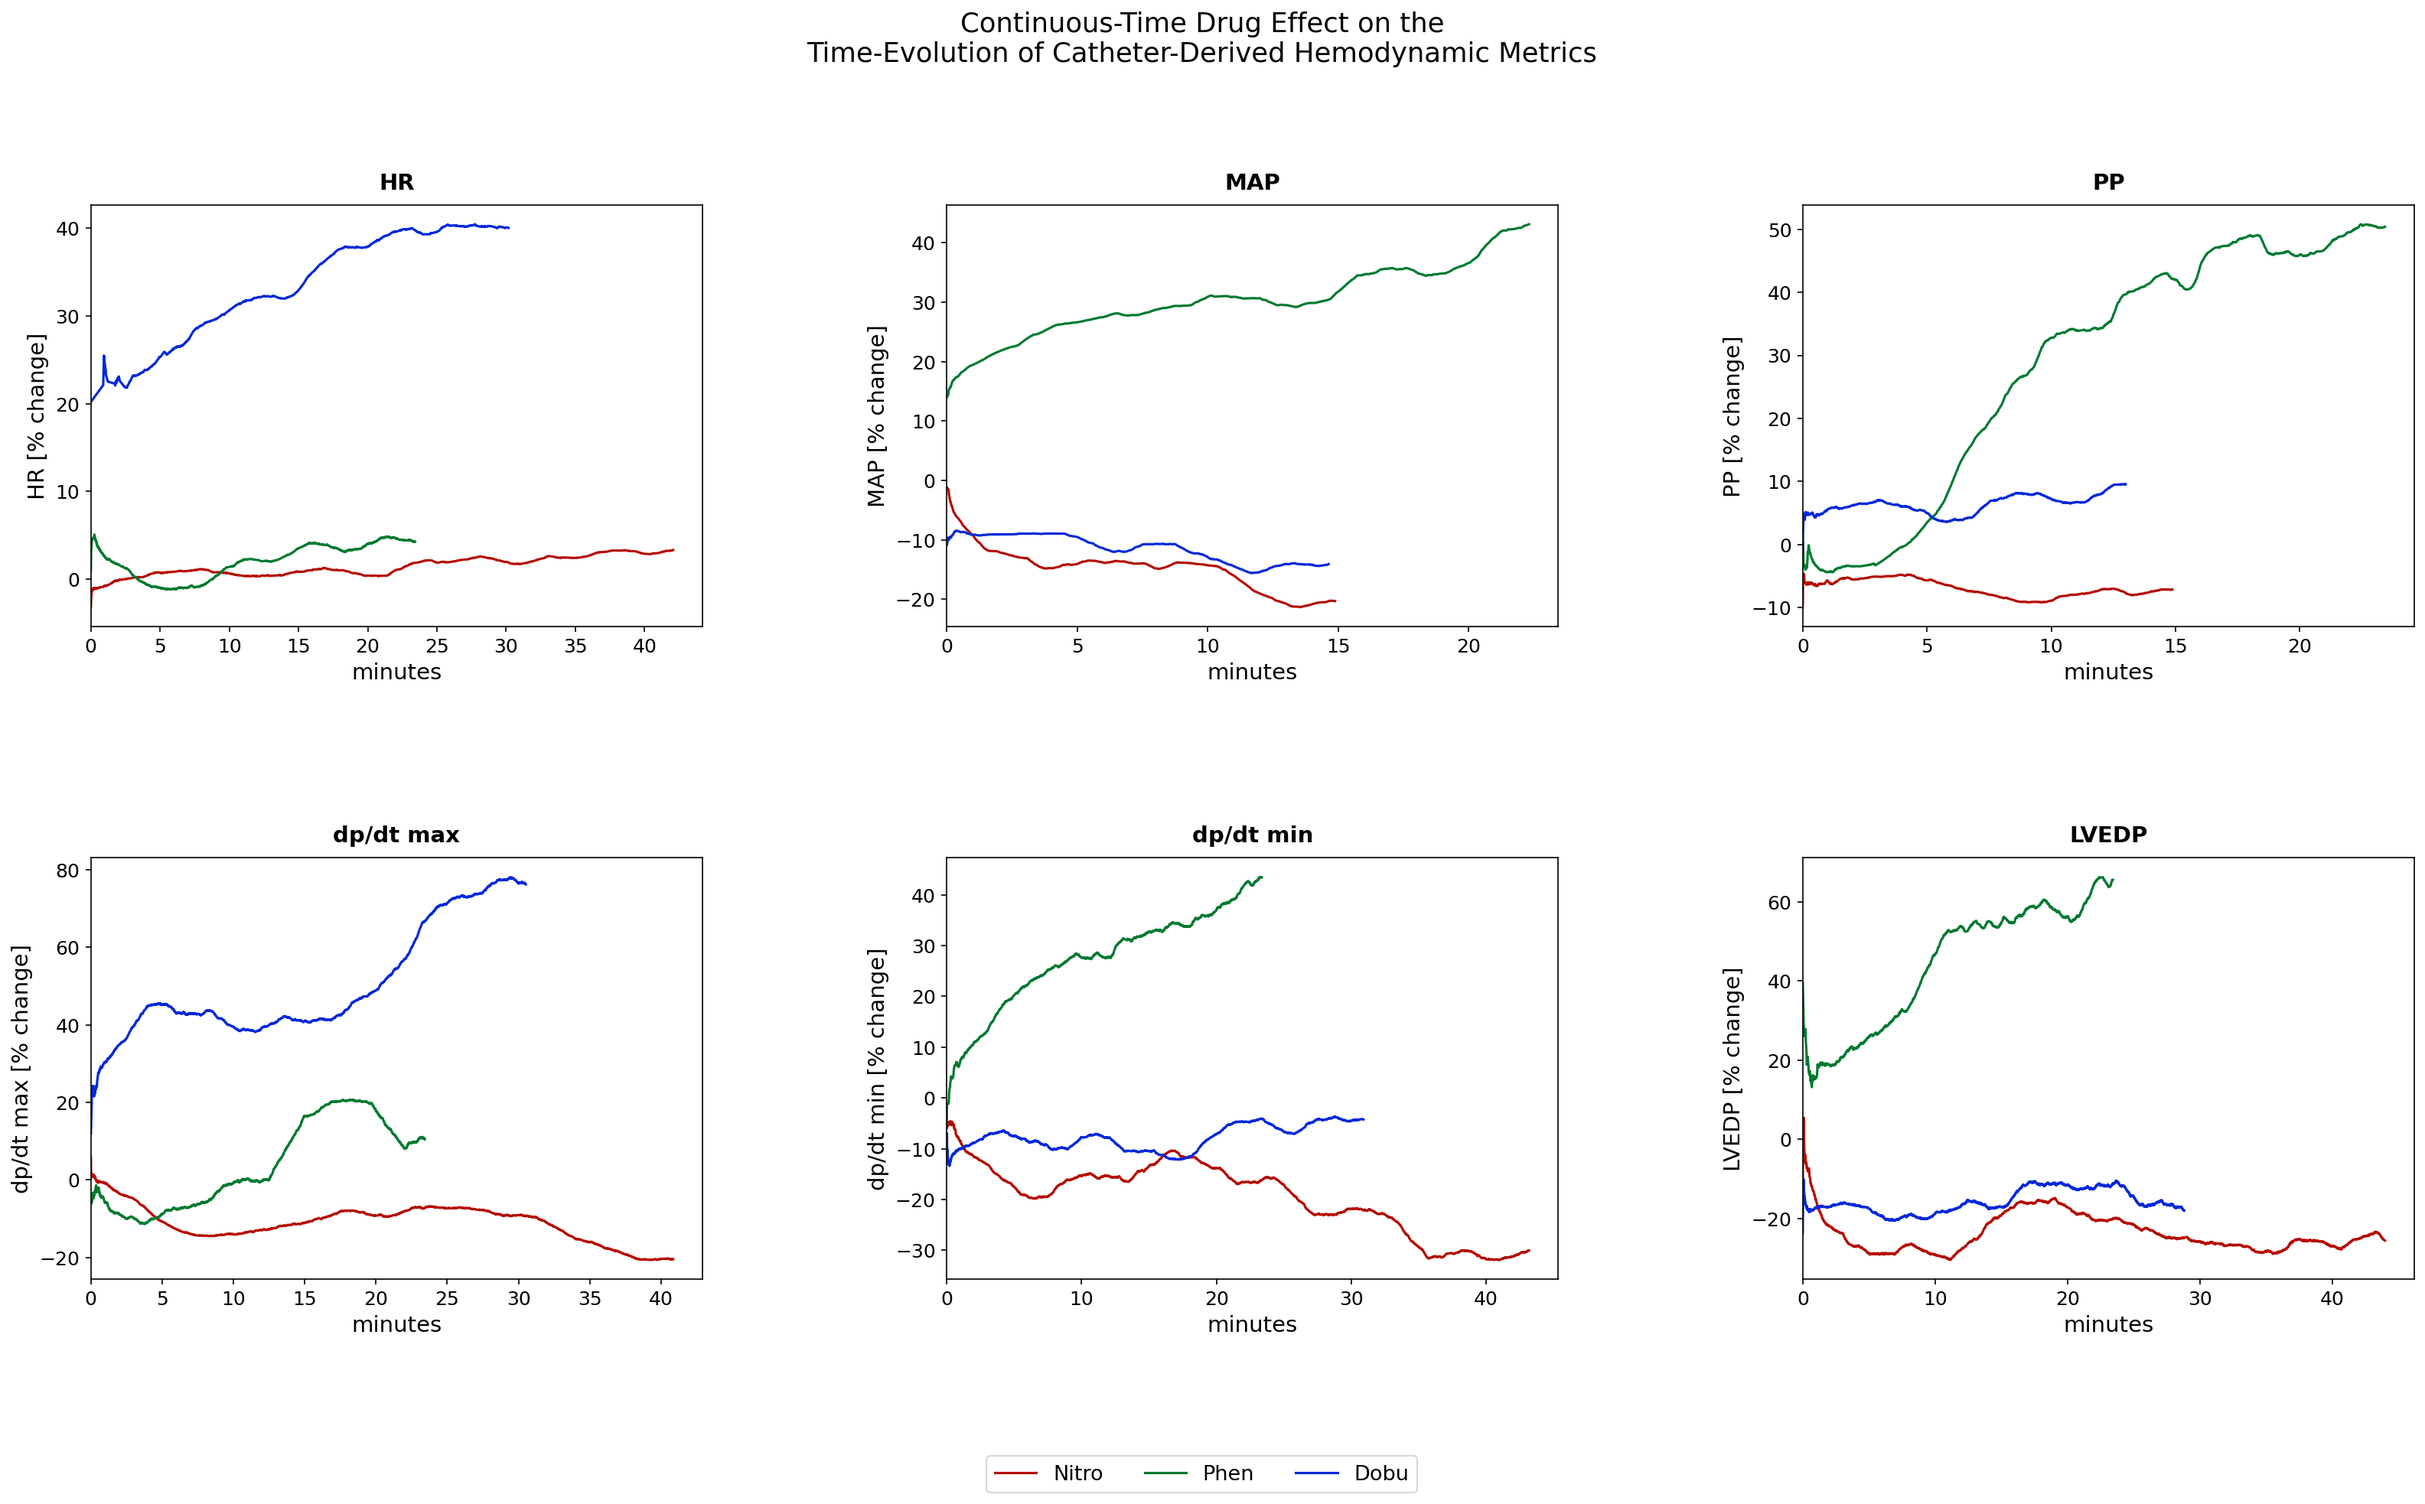
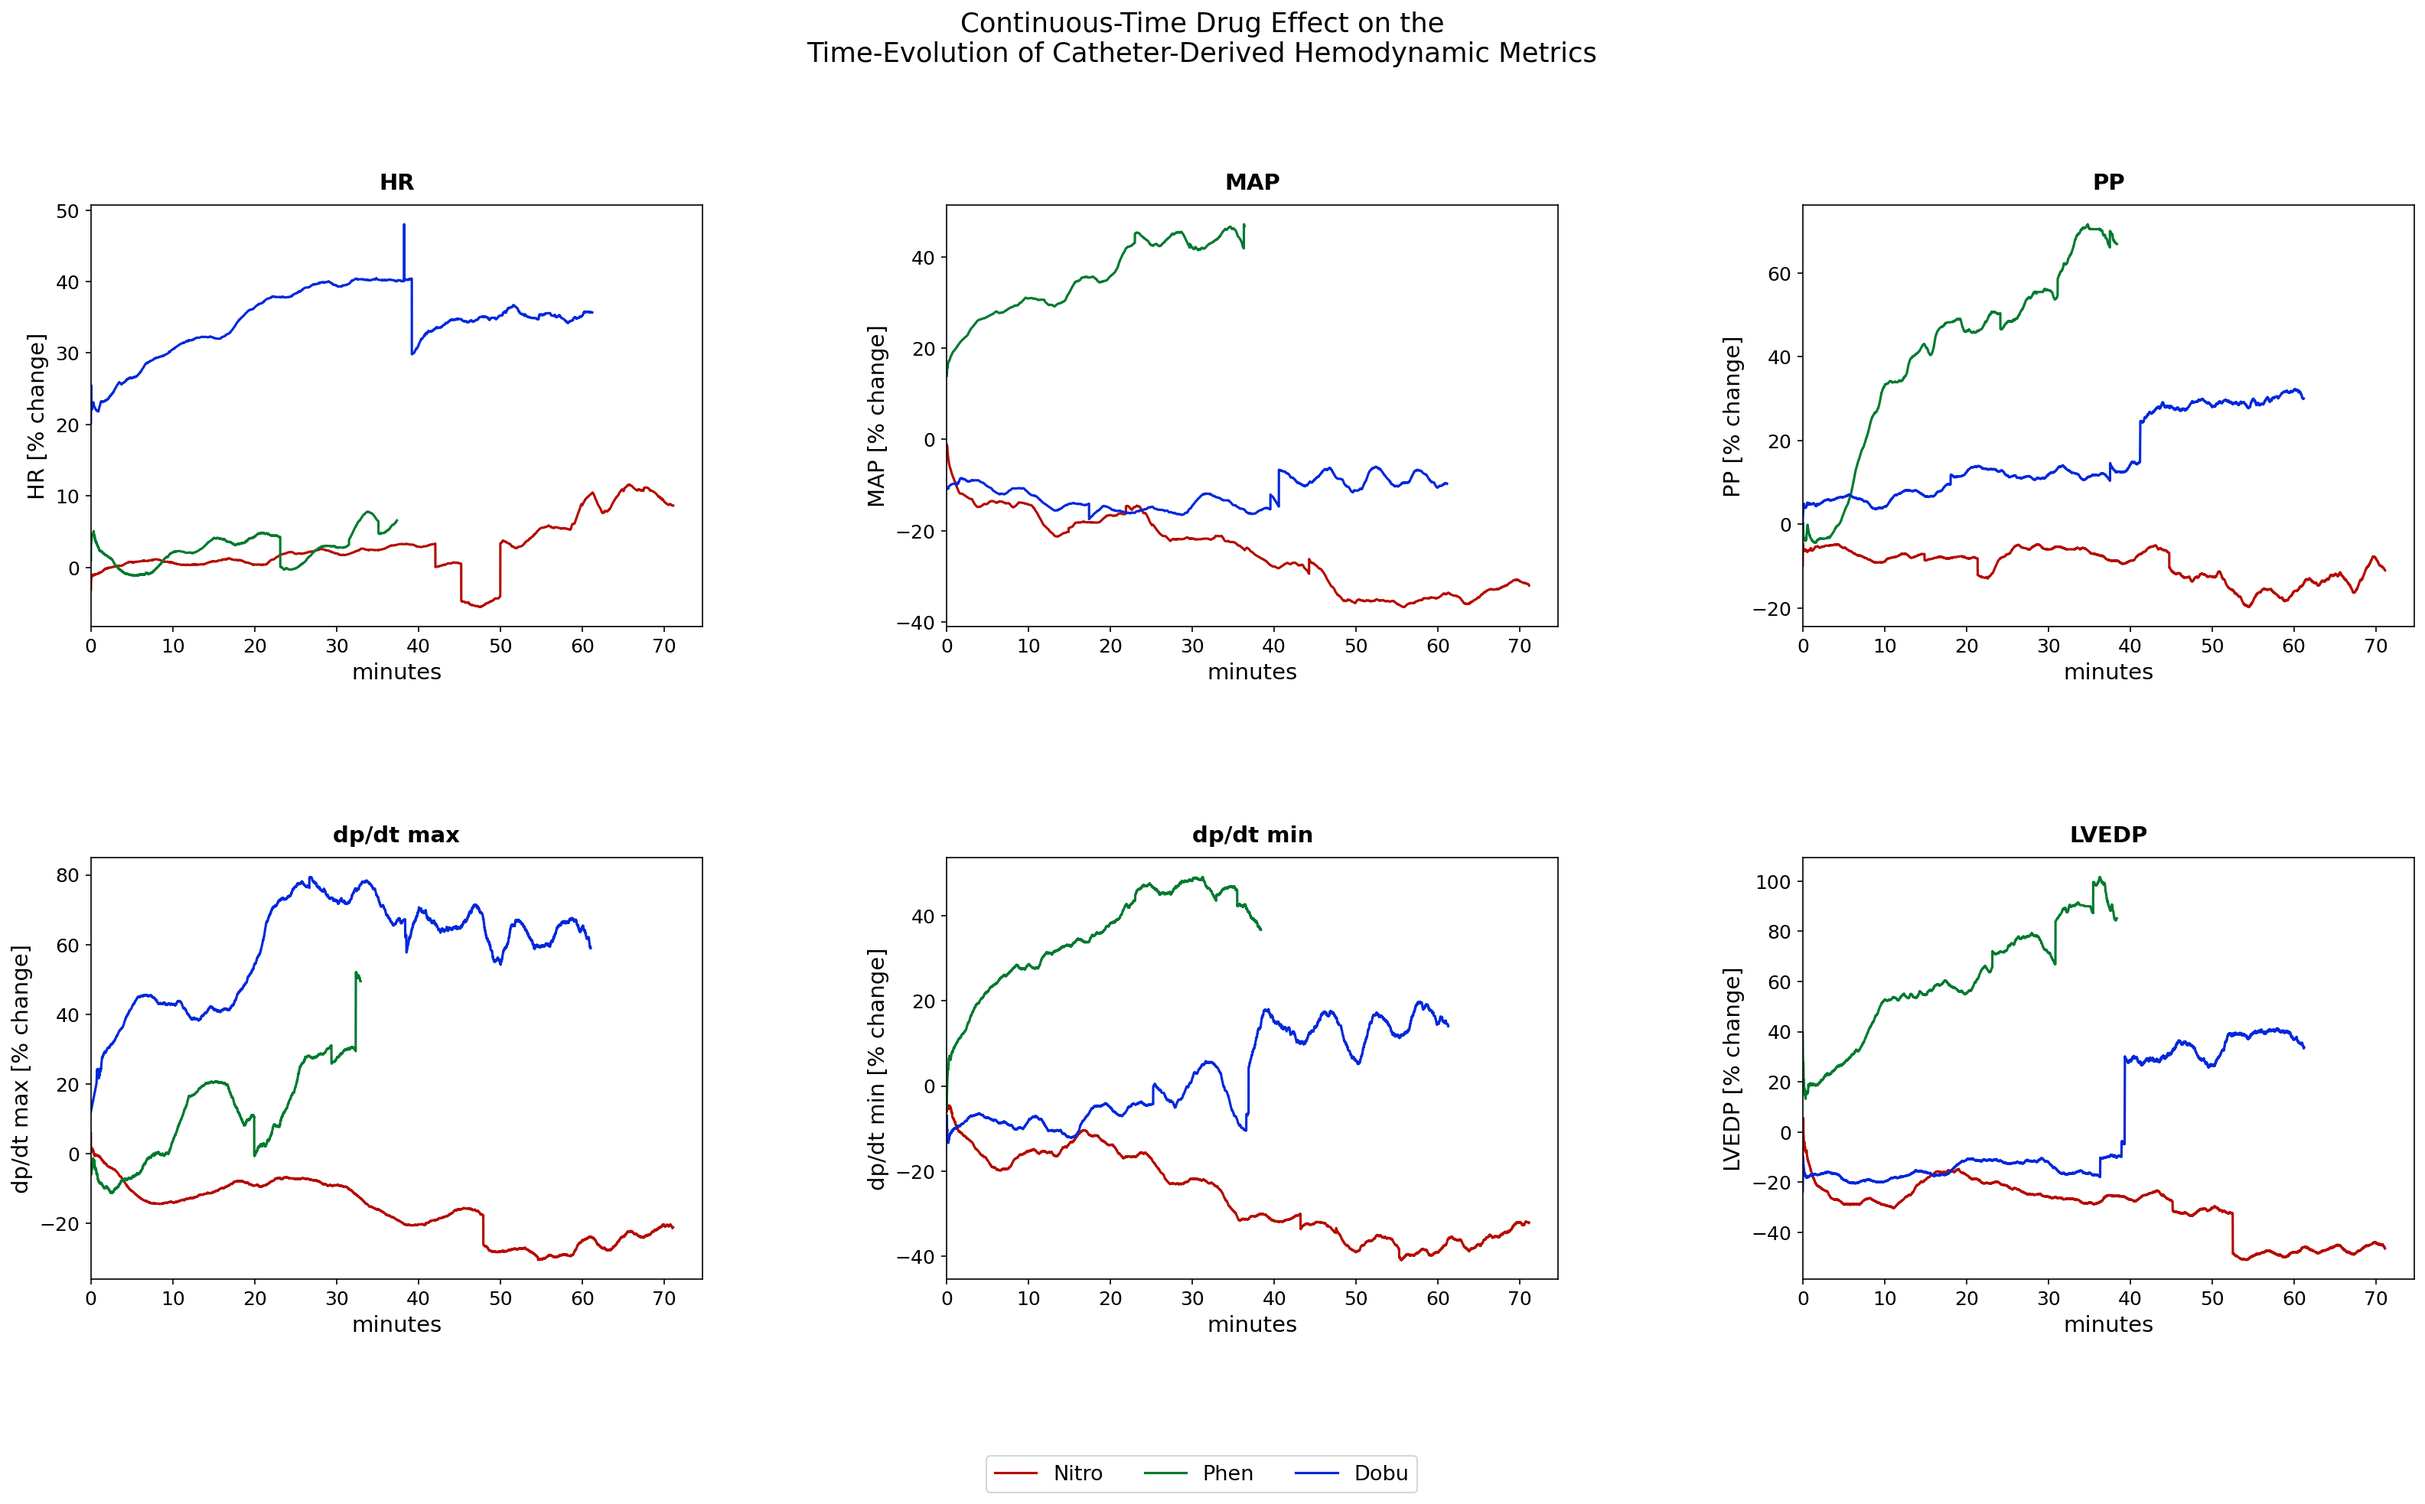
averaging method for ct drug effect analysis changed: now using drop-out method, where average trendline is the length of the animal with most data, and the average at any give point utilizes all the animals that still have data at that point.

diff --git a/fig_code/ct_drug_effect_plots.py b/fig_code/ct_drug_effect_plots.py
@@ -68,9 +68,31 @@ def _elapsed_minutes(ma_df):
 
 def _cross_animal_average(animal_id_list, drug, metric):
     """
-    Loads {animal_id}_{drug}_{metric}_MA.pkl for each animal, truncates to
-    the shortest series, and averages by row position (same convention as
-    sanity_check_ct_drug_effect.py / legacy graphing.py).
+    Loads {animal_id}_{drug}_{metric}_MA.pkl for each animal and averages
+    by row position -- EXPANDING-POOL method (changed from the original
+    truncate-to-shortest method):
+
+    Extends to the length of the LONGEST animal's series. At each row
+    position, averages over whichever animals still have data there (e.g.
+    if 202 runs out at position 1000 but 203/205/221 continue to 1500,
+    positions 1000-1500 average (203+205+221)/3, not requiring all 4). As
+    each animal runs out in turn, the pool shrinks: 4 -> 3 -> 2 -> 1. Mean
+    only, no error band. Verified against ct_drug_effect_expanding_avg_
+    sanity_check.py's hand-checked test before being promoted here.
+
+    ALSO FIXES A REAL BUG in the old method, not just a design change:
+    the old code set `x_trim = xs[0][:min_len]` -- the x-axis (time) values
+    were hardcoded to animal_id_list[0]'s (202's) own timestamps,
+    regardless of which animal was ACTUALLY shortest. Since different
+    metrics have very different point-densities (e.g. AOP-derived MAP/PP
+    peak-detection produces a different points-per-minute rate than ECG-
+    derived HR), this could badly mislabel the time axis -- confirmed via
+    real MAP data where the resulting average line was visibly much
+    SHORTER than even the shortest individual animal trace, because it was
+    using 202's (denser) time-per-point spacing to label a point count
+    that came from a different, sparser animal. The new method sources the
+    x-axis from whichever animal is dynamically found to be longest, not a
+    hardcoded index, so this can't happen.
     """
     ys, xs = [], []
     for animal_id in animal_id_list:
@@ -80,16 +102,22 @@ def _cross_animal_average(animal_id_list, drug, metric):
             continue
         ma_df = pd.read_pickle(path)
         xs.append(_elapsed_minutes(ma_df))
-        ys.append(ma_df["SMA"])
+        ys.append(list(ma_df["SMA"]))
 
     if not ys:
         return None, None
 
-    min_len = min(len(y) for y in ys)
-    ys_trim = [y.iloc[:min_len] for y in ys]
-    x_trim = xs[0][:min_len]
-    y_avg = sum(ys_trim) / len(ys_trim)
-    return x_trim, y_avg
+    lengths = [len(y) for y in ys]
+    max_len = max(lengths)
+    longest_idx = lengths.index(max_len)
+    x_full = xs[longest_idx][:max_len]
+
+    y_avg = []
+    for pos in range(max_len):
+        vals_at_pos = [y[pos] for y in ys if pos < len(y)]
+        y_avg.append(sum(vals_at_pos) / len(vals_at_pos))
+
+    return x_full, y_avg
 
 
 def make_ct_drug_effect_figure(save=False, output_dir=None):
